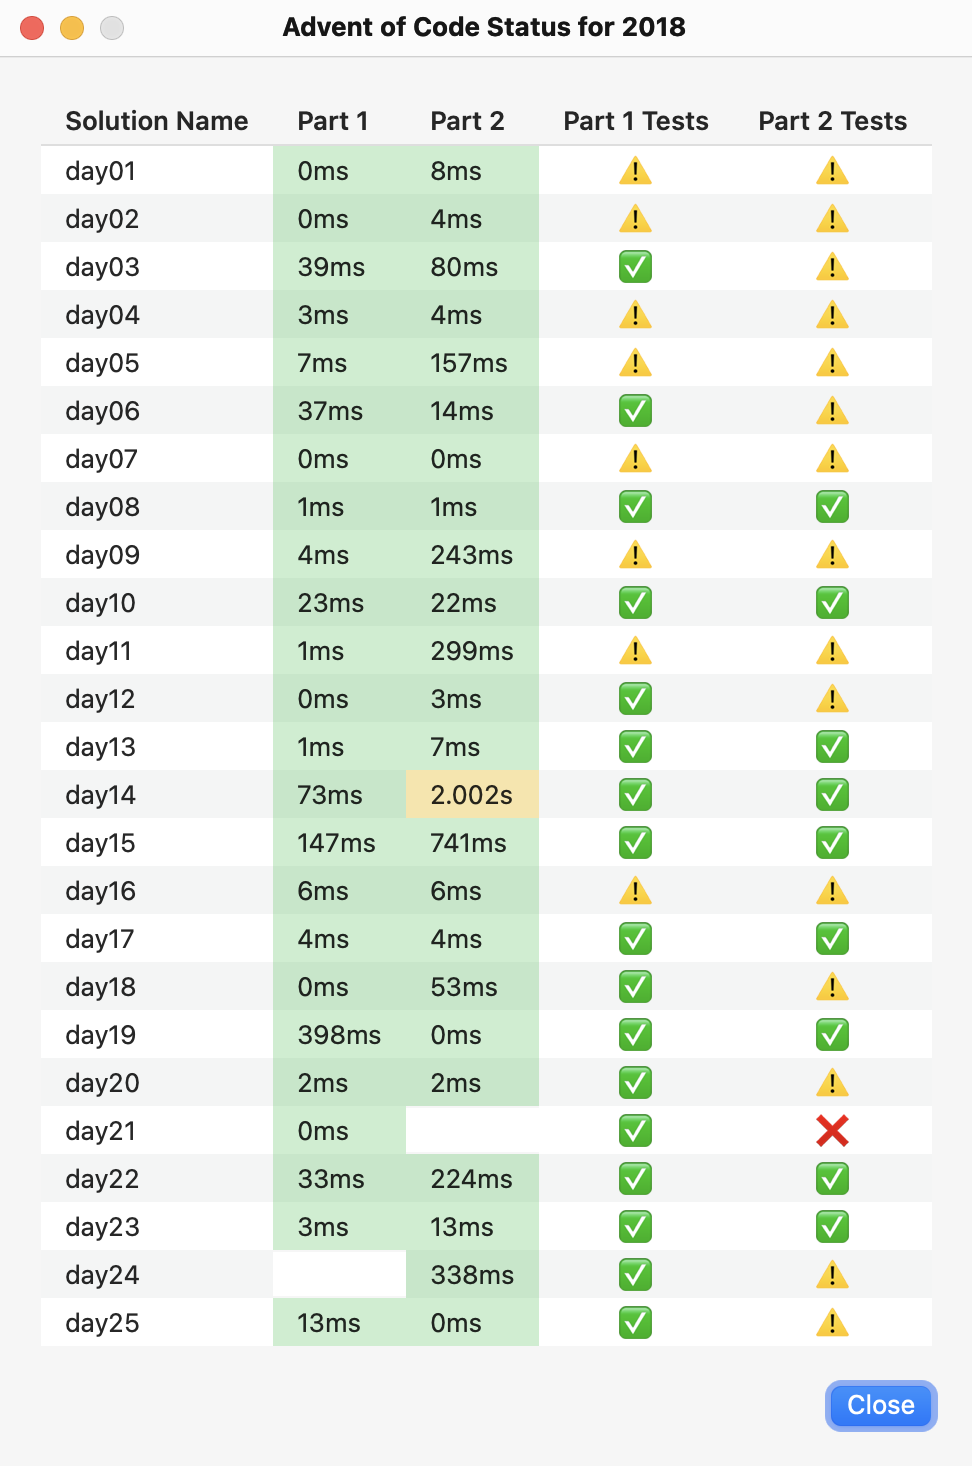
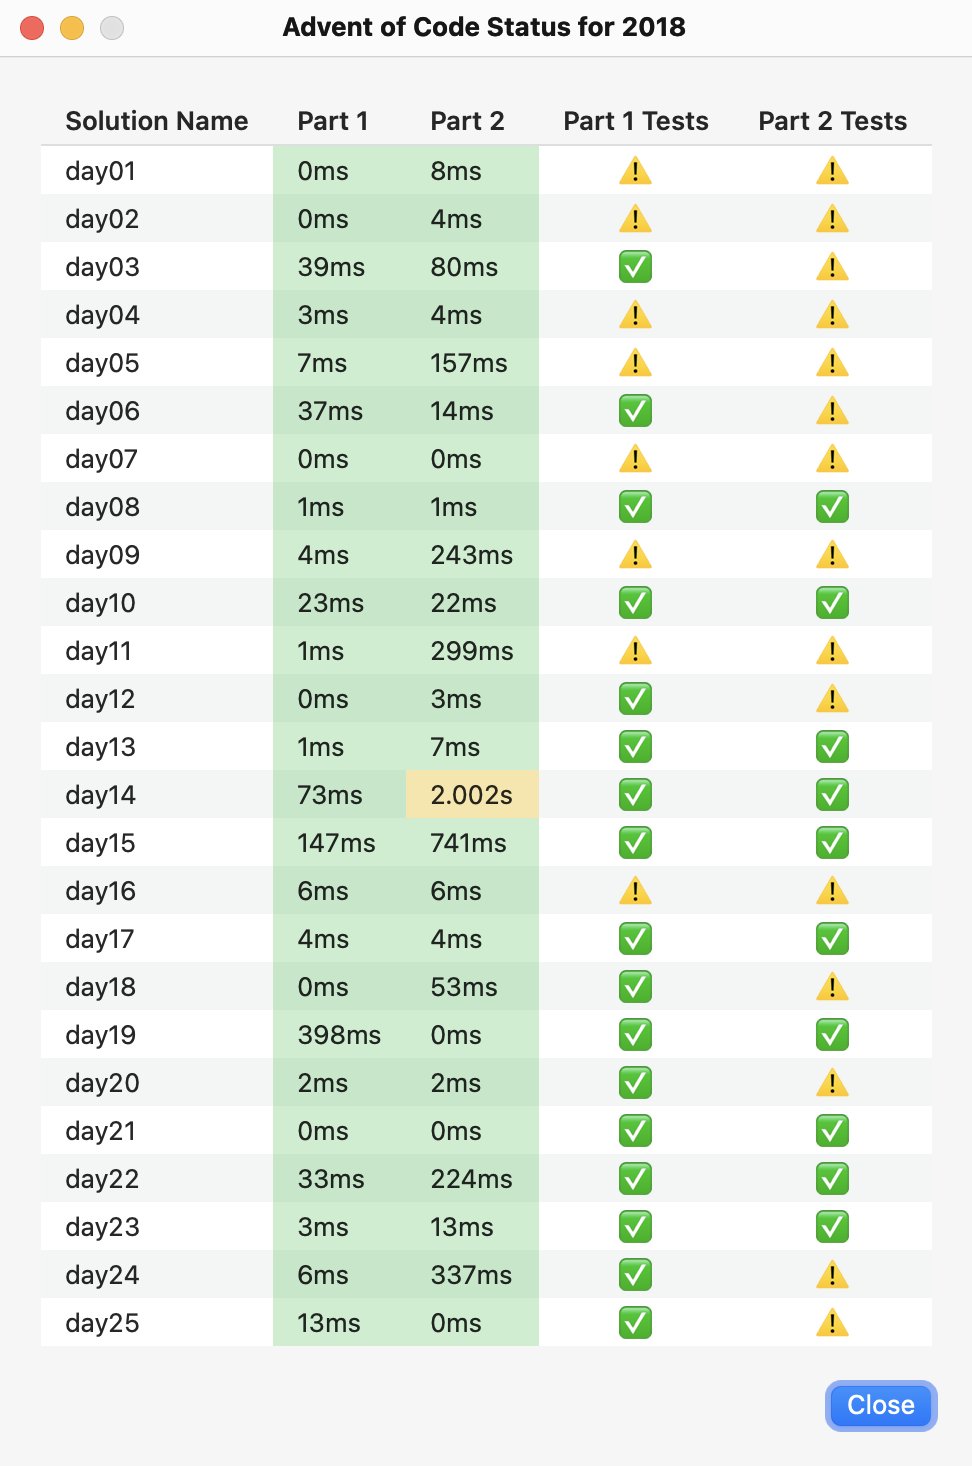
Fixed output of day21 and day24.
1. The output of these 2 was cofusing the gather command.
2. Made minor changes to make it compatible without changing the info.

diff --git a/2018/day21/Sources/main.swift b/2018/day21/Sources/main.swift
@@ -55,6 +55,7 @@ func part1e( input: AOCinput ) -> String {
 }
 
 
+// Not used - too slow - Takes 27 minutes to run.
 func part2( input: AOCinput ) -> String {
     let device = WristDevice( assembly: input.lines )
     let targetRegister = device.memory[28].a
@@ -94,8 +95,8 @@ func part2e( input: AOCinput ) -> String {
 
 try print( projectInfo() )
 try runTests( part1: part1 )
-try runTests( part2: part2e, label: "Emulator" )
-try solve( part1: part1 )
-try solve( part1: part1e, label: "Emulator" )
-try solve( part2: part2e, label: "Emulator" )
+try runTests( part2: part2e )
+try solve( part1: part1, label: "Slow" )
+try solve( part1: part1e )
+try solve( part2: part2e )
 //try solve( part2: part2 )      // Takes 27 minutes to run.

diff --git a/2018/day24/Sources/main.swift b/2018/day24/Sources/main.swift
@@ -234,7 +234,7 @@ func part1( input: AOCinput ) -> String {
     let armies = parse( input: input )
     
     if let victor = try! battle( armies: armies ) {
-        print( "Part1: victory by \(victor.name)." )
+        print( "Victory by \(victor.name)." )
         return "\(victor.groups.reduce( 0, { $0 + $1.unitCount } ))"
     }
 
